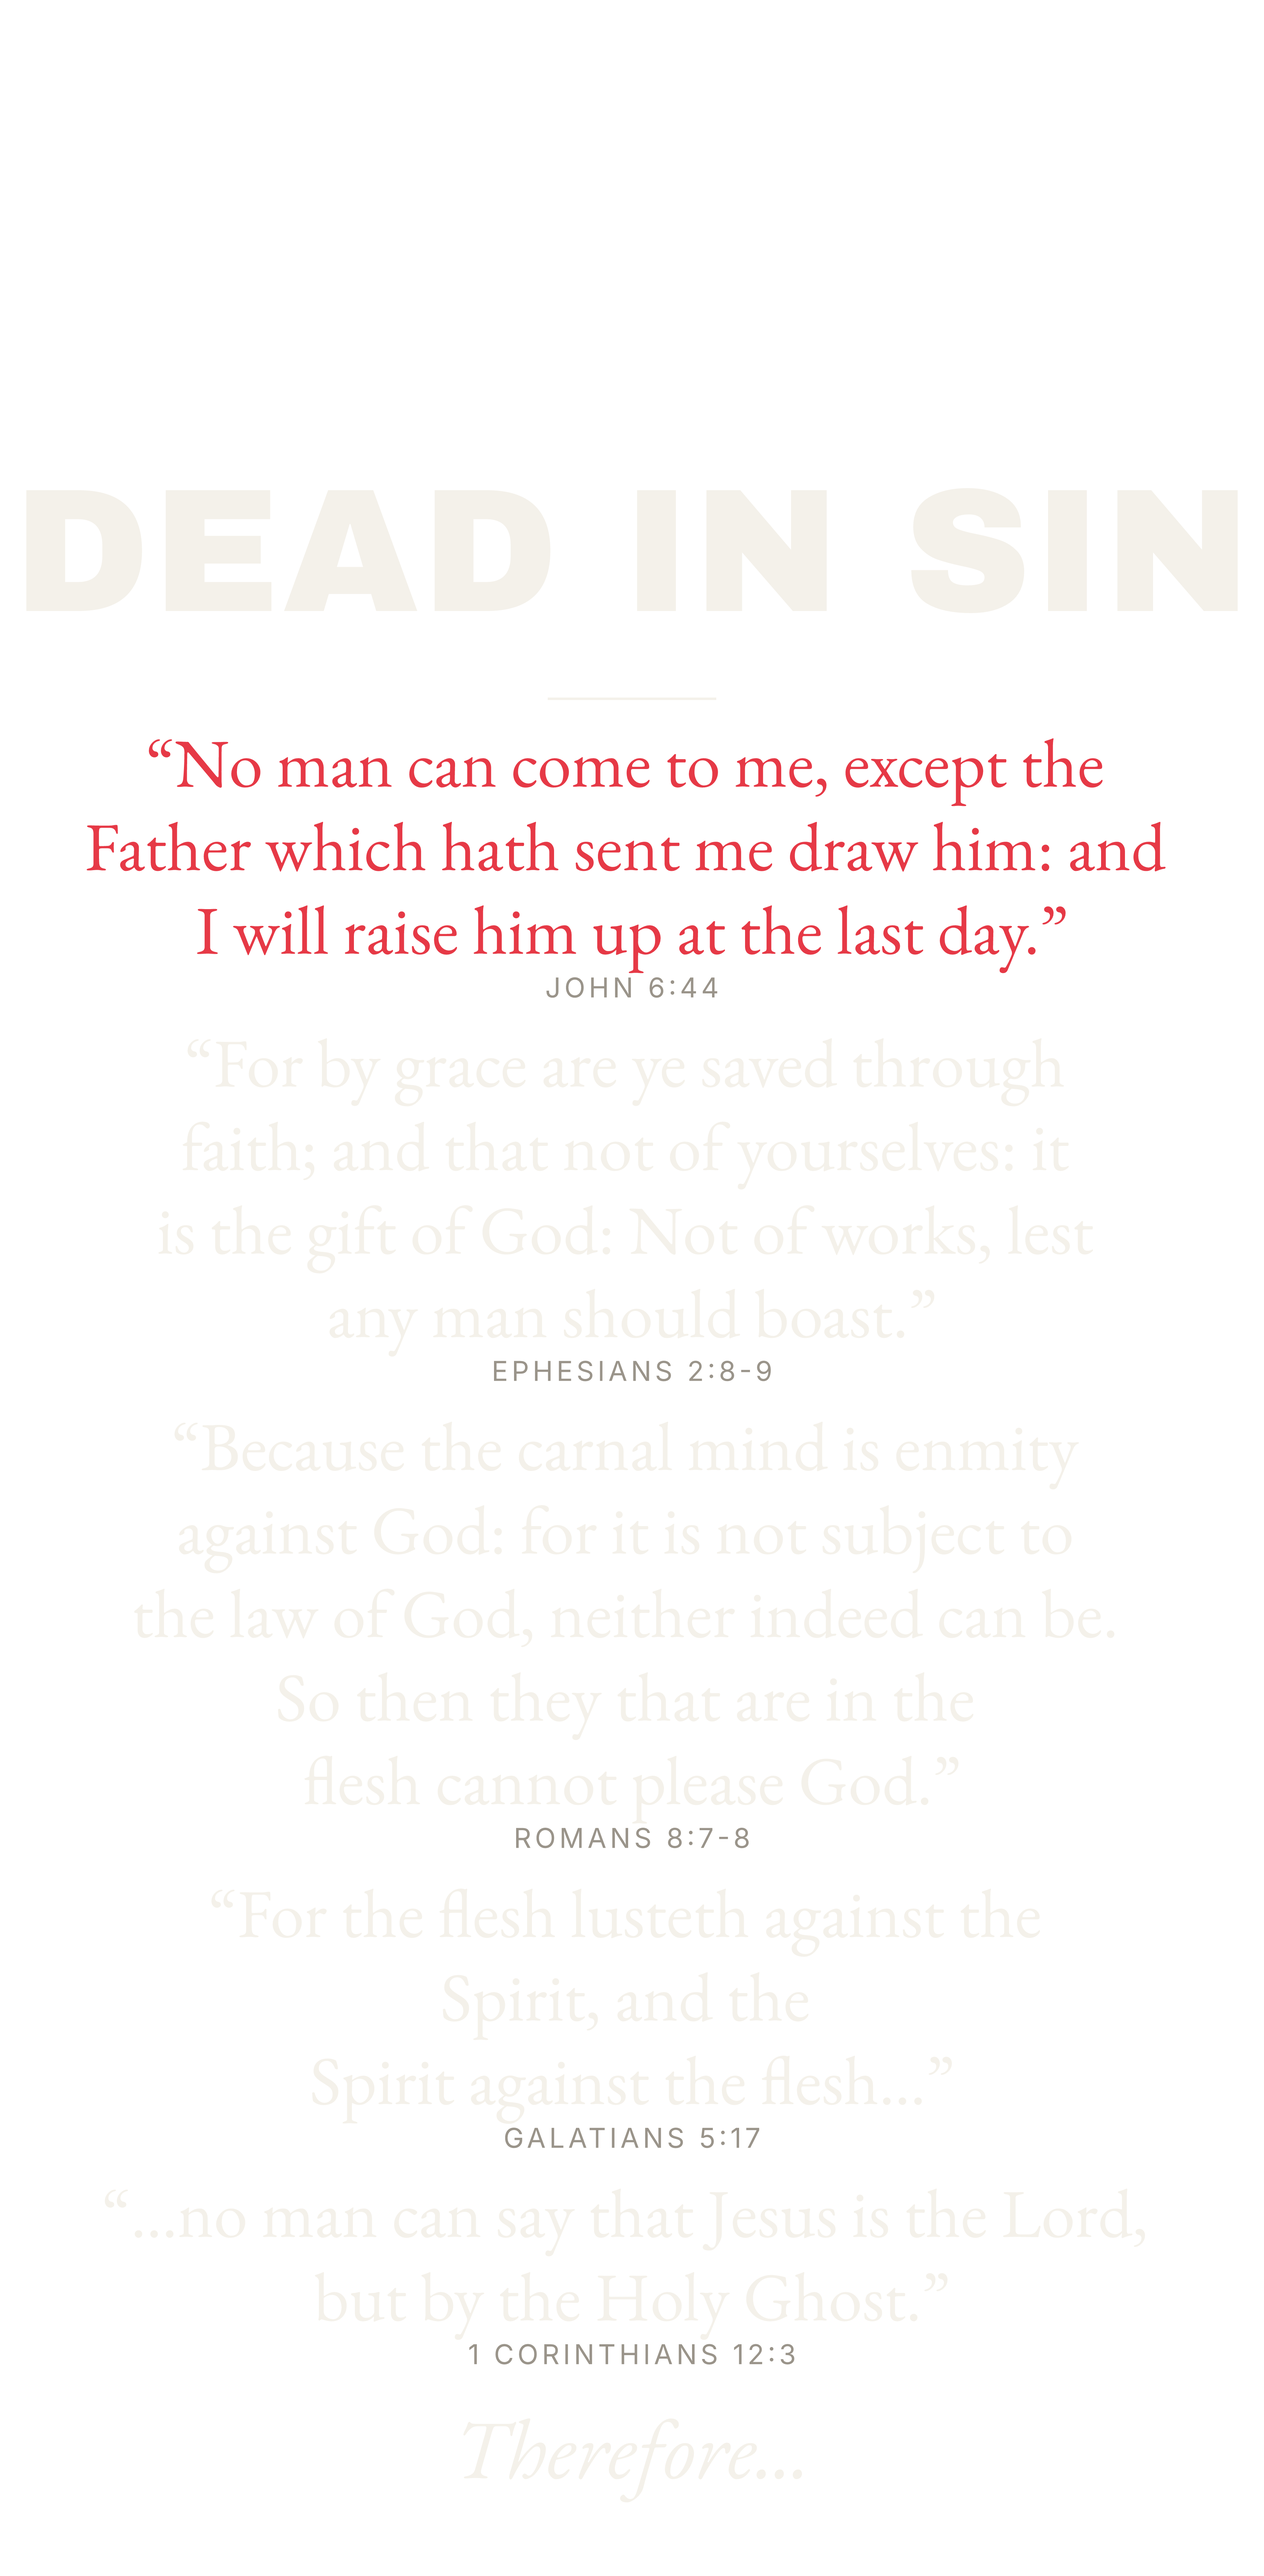
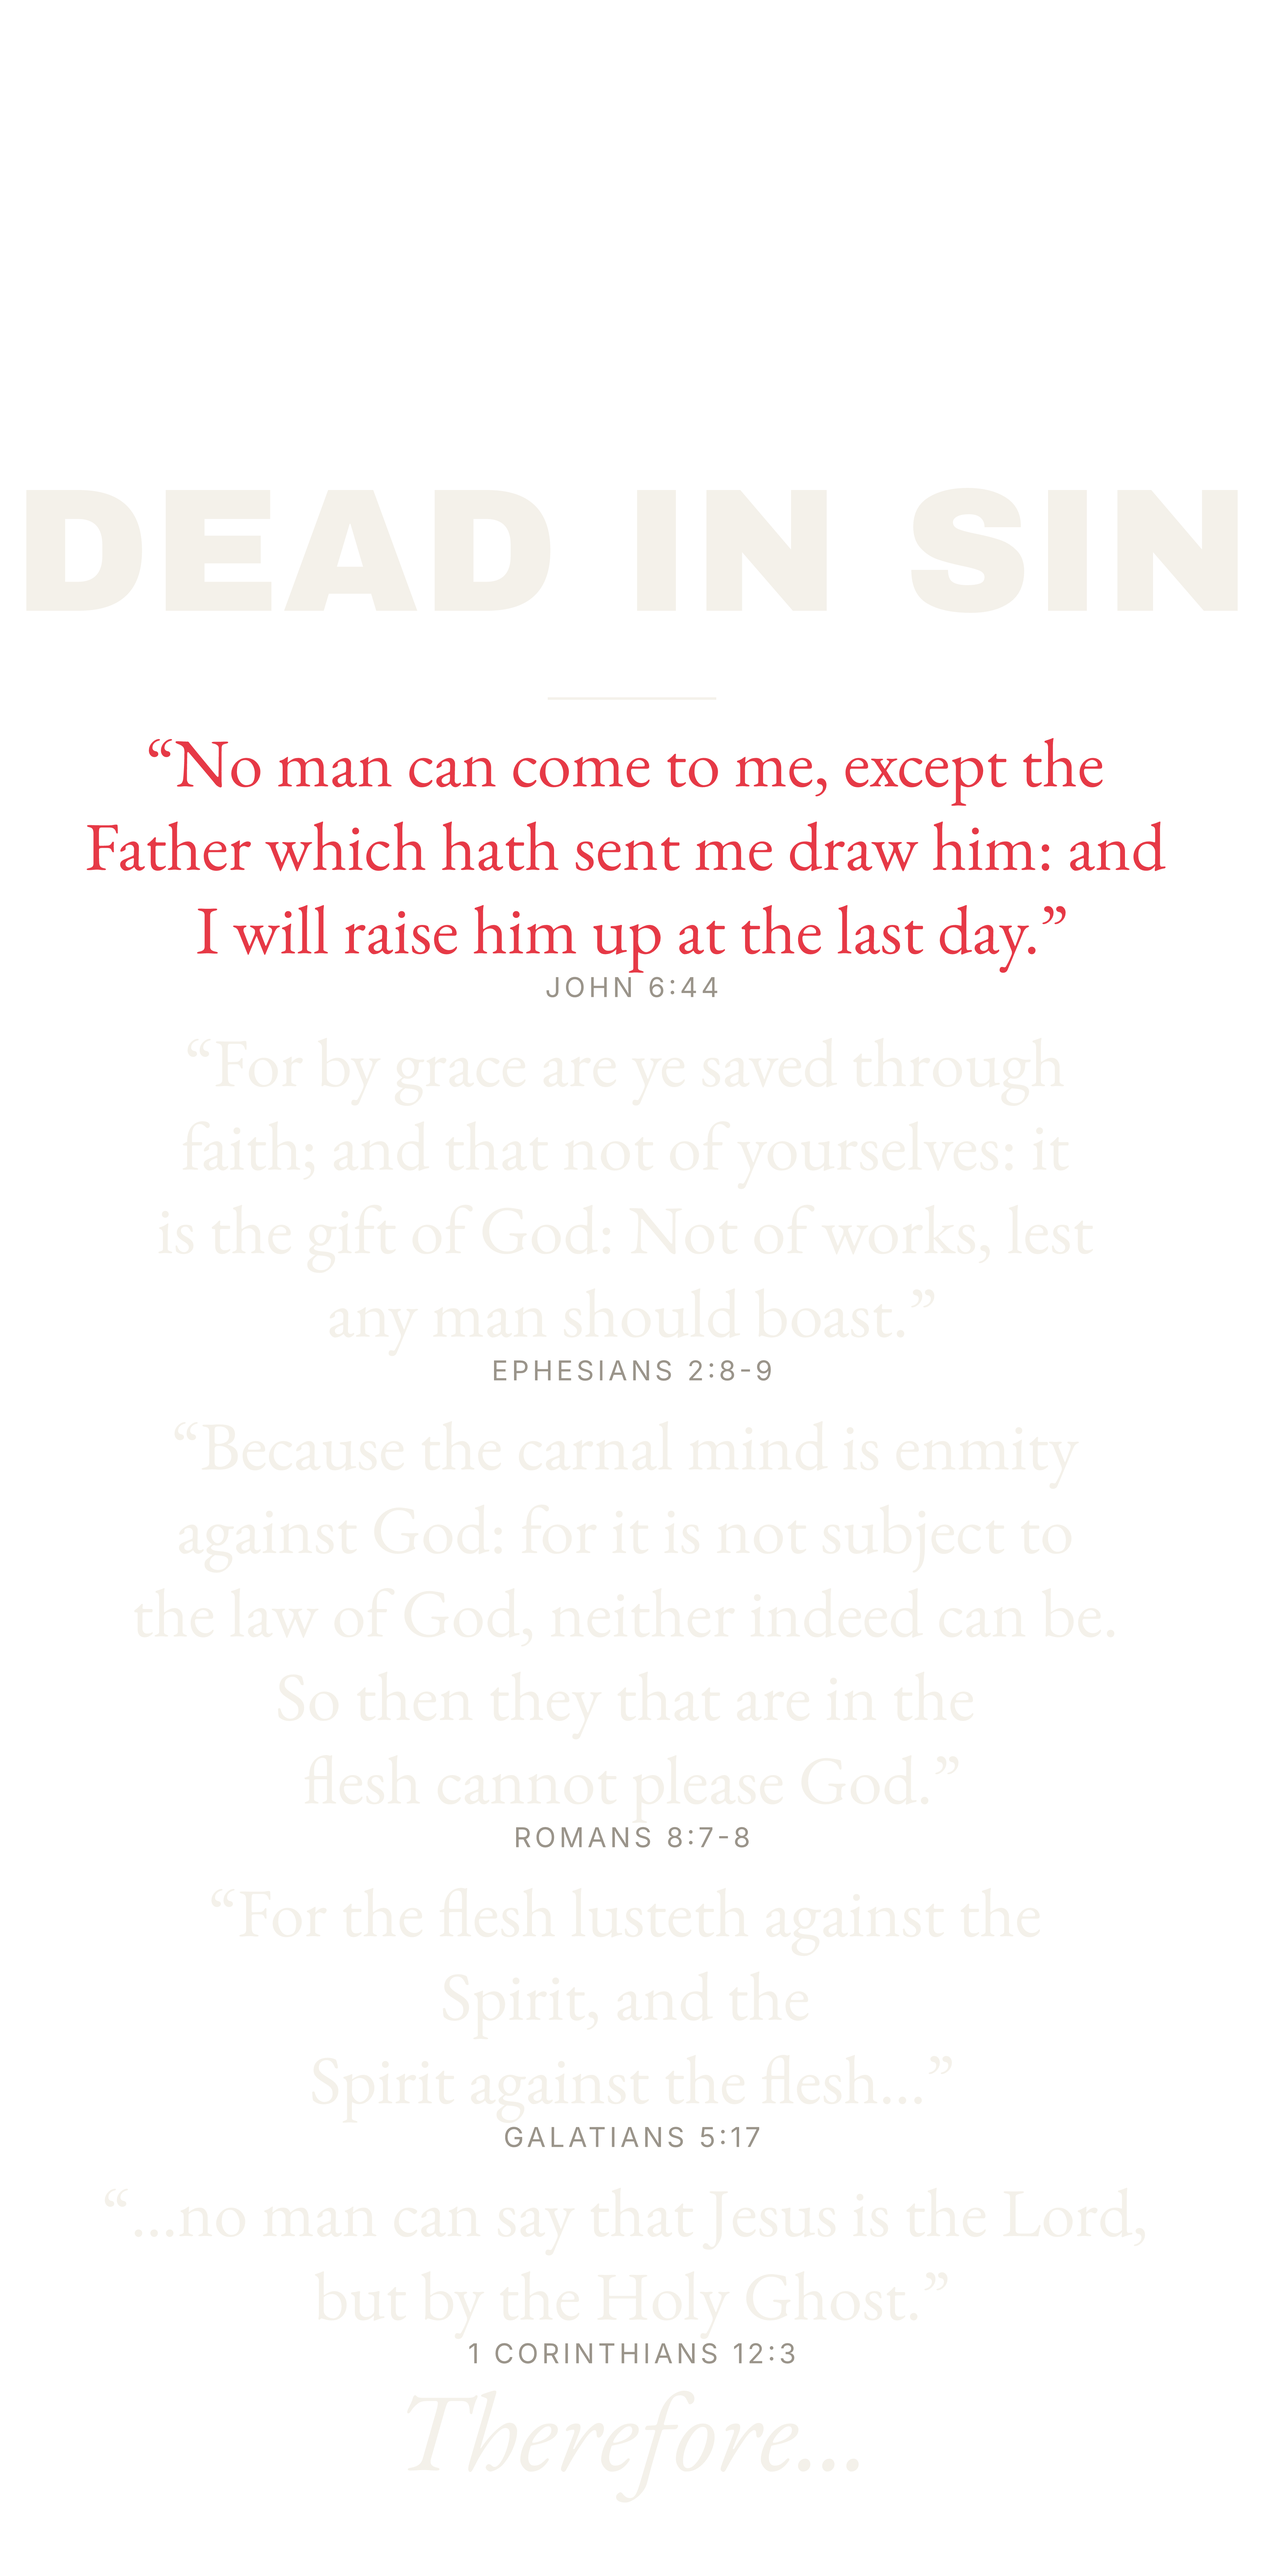
Bigger closings ("Therefore..." +33%, "This is most certainly true." +14%)
Both closings are single lines, so bumping their font just makes that
one line taller — no wrap impact. To keep the canvas from growing,
trimmed the closing-buffer multiplier 1.35 → 0.95. Net result: canvas
ended up *slightly* shorter than before.

Front closing  "Therefore..."           240 → 320 (~77pt actual at 16" cap)
Back closing   "This is most certainly true."  220 → 250

The back is capped at 250 because anything larger pushes the 28-char
sentence onto two lines at the current line width. Front's 11-char
"Therefore..." has tons of horizontal headroom.

diff --git a/build.py b/build.py
@@ -209,10 +209,10 @@ def render_front_layout(meta, blocks, palette, with_bg=True):
     front_heading = meta.get("front_heading", "")
 
     # font sizes are in px (= svg user units); divide by ~4.17 for points.
-    # 500 ≈ 120pt, 195 ≈ 47pt, 240 ≈ 58pt.
+    # 500 ≈ 120pt, 195 ≈ 47pt, 320 ≈ 77pt.
     verse_font = 195
     cite_font = 78
-    closing_font = 240
+    closing_font = 320
 
     content: list[str] = []
     # Optional transparent padding at the top of the canvas — pushes the whole
@@ -263,7 +263,7 @@ def render_front_layout(meta, blocks, palette, with_bg=True):
 
     if closing:
         para = " ".join(closing["paragraphs"])
-        y = last_y + closing_font * 1.35  # snug gap so "Therefore..." stays near verses
+        y = last_y + closing_font * 0.95  # snug gap so "Therefore..." stays near verses
         lines = wrap_text(para, max_w, closing_font, SERIF_CW)
         svg, end_y = text_block(cx, y, lines, closing_font, palette["body"], style="italic")
         content.append(svg)
@@ -324,9 +324,9 @@ def render_back_layout(meta, blocks, palette, with_bg=True):
             y = end_y + body_font * 1.65  # extra paragraph separation
 
     if closing:
-        closing_font = 220
+        closing_font = 250  # max that keeps "This is most certainly true." on one line
         para = " ".join(closing["paragraphs"])
-        y = last_y + closing_font * 1.35
+        y = last_y + closing_font * 0.95
         lines = wrap_text(para, max_w, closing_font, SERIF_CW)
         svg, end_y = text_block(cx, y, lines, closing_font, palette["body"], style="italic")
         content.append(svg)
